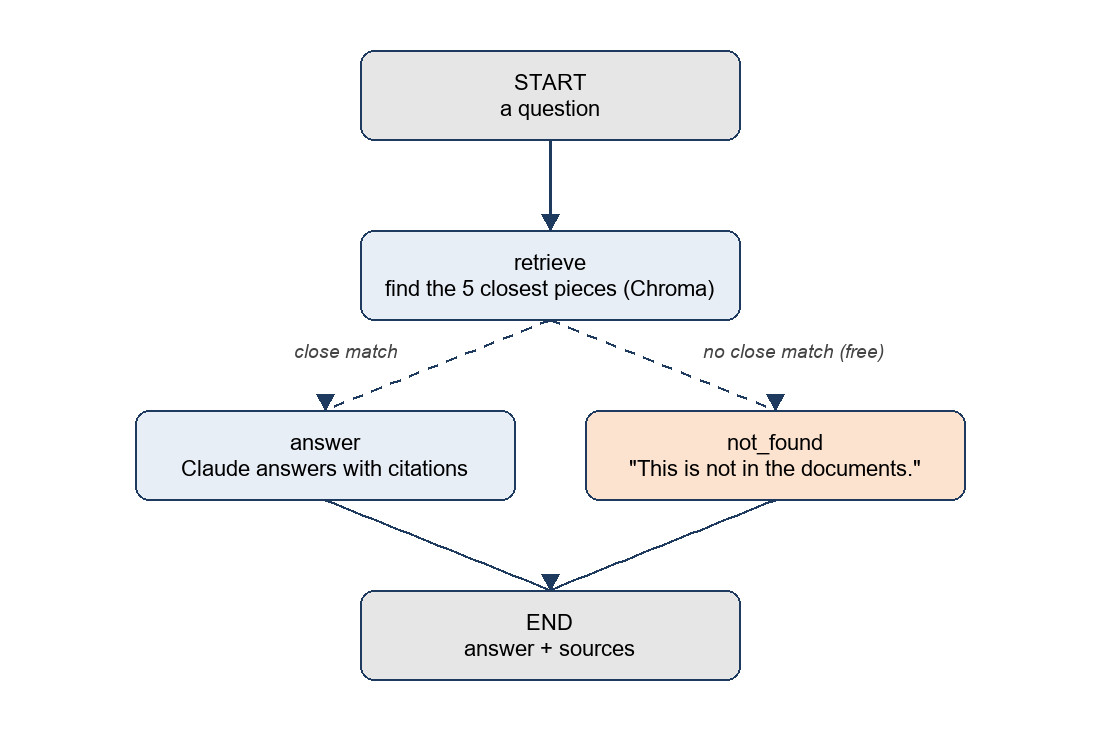
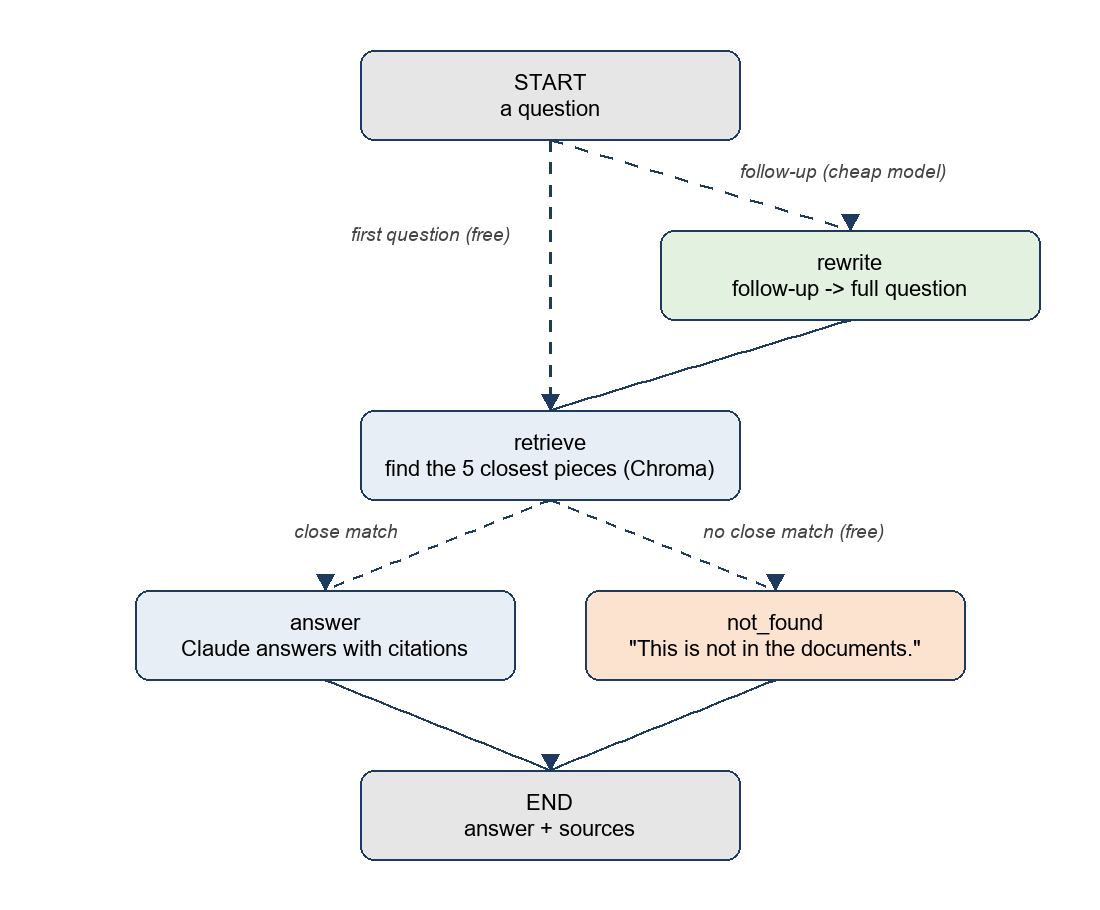
Version 2: owner login, documents page, follow-ups, pictures, feedback, PDF export, demo video
- New demo GIF and screenshots of the real program (made-up company documents)
- 20-question test with Claude Opus 5.5: 15 of 15 + 5 of 5; 155 automatic checks
- Block diagram and updated LangGraph flow

Changed region(s): [[0.1236, 0.2411, 0.9582, 0.9644], [0.3091, 0.0301, 0.8655, 0.211], [0.3091, 0.2411, 0.4636, 0.2712]]

diff --git a/README.md b/README.md
@@ -1,45 +1,67 @@
-# Business Knowledge Assistant 📚🤖
+# RAG Business Knowledge Assistant 📚🤖
 
-**Ask questions about a company's own documents and get answers with the source of every fact.** A company puts its PDF and Word files in a folder; an assistant built on **Anthropic Claude** answers only from those files, shows the file and page behind each answer, and says *"This is not in the documents"* instead of guessing.
+**Ask questions about a company's own documents and get answers with the source of every fact.** A company puts its PDF and Word files in one place; an assistant built on **Anthropic Claude** answers only from those files, shows the file, page and exact sentence behind each answer, and says *"This is not in the documents"* instead of guessing.
 
-Designed and built by **Iftikhar Ahmed** with Claude Code (2026).
+Designed and built by **Iftikhar Ahmed** with Claude Code (2026) · **Version 2**
 
 > This is a showcase. The source code is private. A live demo or code walkthrough is available on request.
 
 <p align="center">
-  <img src="images/answer-from-two-files.png" alt="Answer built from two documents, with sources" width="900"><br>
-  <em>One question, two documents: the price comes from the price list (page 2), the warranty from the product sheet (page 3). Each source shows the exact passage Claude used.</em>
+  <img src="images/demo.gif" alt="Demo: questions, sources, a follow-up, a picture, feedback, PDF and the owner's pages" width="900"><br>
+  <em>A 45-second tour of the real program (made-up company "Lumora Home Appliances").</em>
 </p>
 
 ---
 
 ## What it does
 
-1. The company's documents (PDF and Word) are read and cut into small pieces, one topic each, keeping the file name, page and heading of every piece.
-2. Each piece is stored in a **vector database**, so the assistant can find passages that *mean* the same as a question, not only ones with the same words.
-3. A question comes in. The 5 closest passages are found in a fraction of a second, on the company's own computer.
-4. **Claude** writes a short answer from those passages only. Claude's built-in **citations** mark the exact sentence behind each fact, shown as [1], [2].
+1. The owner adds the company's PDF and Word files on a password-protected page. They are read page by page and cut into small one-topic pieces, keeping the file, page and heading of each piece. **Pictures inside the documents** (product photos, drawings) are taken out and described once, so they can be found too.
+2. Each piece is stored in a **vector database**, so the assistant finds passages that *mean* the same as a question, not only ones with the same words.
+3. Staff ask in a chat. A **follow-up** such as *"and how much is it?"* is first turned into a full question using the conversation.
+4. The 5 closest passages are found on the company's own computer, and **Claude** writes a short answer from those passages only. Claude's built-in **citations** mark the exact sentence behind each fact, shown as [1], [2].
 5. If the documents do not contain the answer, the assistant says so. It never fills the gap from general knowledge.
 
-**Safety by design:** answers only from the company's documents; every fact traceable to a file and page; a clear "not in the documents" instead of a guess; the documents and the search stay on the company's computer; a spending limit stops all AI calls at a set amount.
+## What's new in version 2
 
-## Results (20-question test)
+| Feature | What it gives the business |
+|---|---|
+| **Owner login** | Owner manages documents, settings, costs and feedback; staff can only ask |
+| **Documents page** | Add, replace, delete and restore files without technical help |
+| **Follow-up questions** | A natural conversation; the page shows how each follow-up was understood |
+| **Pictures from the documents** | "What does the LH-450 look like?" shows the drawing from the product sheet, with its page |
+| **👍 / 👎 feedback** | Staff mark wrong or missing answers; the owner sees them to fix the documents |
+| **Copy and Save as PDF** | Answers with their sources go straight into an e-mail, a chat or a printout |
+| **Desktop icon** | Double-click to start; no black window; a Stop button for the owner |
+| **New look** | Glass cards and a moving 3D background, light and dark |
+
+## Results (20-question test, Claude Opus 5.5)
 
 | What | Result |
 |---|---|
-| Questions the documents can answer | **14 of 15 correct**, 1 partly correct (right facts, one source pointed to the wrong page) |
-| Questions the documents cannot answer (traps: a product that does not exist, a price in euros, Sunday delivery, the store manager's name) | **5 of 5** correctly answered "not in the documents" |
+| Questions the documents can answer | **15 of 15 correct**, each with the right file and page (version 1: 14 of 15) |
+| Trap questions (a product that does not exist, a price in euros, Sunday delivery, the store manager's name, used cars) | **5 of 5** correctly answered "not in the documents" |
 | Made-up facts | **None** — every answer was read and checked by hand |
+| Automatic tests | **155 checks** in 14 test files, all passing; plus checks in a real browser |
 | Time per question | about **2 seconds** |
-| Cost per question | about **1 US cent** (Claude Opus 5.5) · about 0.03 US cents with the smaller Claude Haiku 5.5 |
+| Cost per question | about **1 US cent** with Claude Opus 5.5 · about 0.03 US cents with Claude Haiku 5.5 |
 
-**Tested honestly:** the first test run missed one answer. The cause was found (one page with four topics had been stored as one piece, so the search could not find the extended-warranty rule), the reading step was improved to cut pieces at headings, and every earlier test was run again before the final score.
+**Tested honestly:** testing found real problems, and each was fixed and re-tested — a page with four topics stored as one piece (now cut at headings), the small model sometimes writing a draft into its answer (now checked and asked again automatically), and picture descriptions creeping into price answers (now used only when someone asks what a product looks like).
 
-## Screens (made-up company "Lumora Home Appliances")
+## Screens
 
 <p align="center">
-  <img src="images/answer-with-sources.png" alt="Answer with its source" width="900"><br>
-  <em>"I paid 300 in cash. How will I get my refund?" — the assistant applies the return policy (cash refunds only up to 200.00) and shows the passage it used.</em>
+  <img src="images/answer-two-files.png" alt="Answer built from two documents, with sources" width="900"><br>
+  <em>One question, two documents: the price from the price list (page 2), the warranty from the product sheet (page 3), each with the exact passage Claude used.</em>
+</p>
+
+<p align="center">
+  <img src="images/follow-up.png" alt="A follow-up question" width="900"><br>
+  <em>"and how much does installation cost?" — understood as a question about the LH-610 and answered from two documents.</em>
+</p>
+
+<p align="center">
+  <img src="images/picture-answer.png" alt="A picture from the documents" width="900"><br>
+  <em>Pictures inside the documents are found and shown with their file and page.</em>
 </p>
 
 <p align="center">
@@ -48,8 +70,30 @@ Designed and built by **Iftikhar Ahmed** with Claude Code (2026).
 </p>
 
 <p align="center">
+  <img src="images/documents-page.png" alt="The owner's Documents page" width="900"><br>
+  <em>Owner only: documents in use, with pages, pictures and pieces; add, replace, delete and restore.</em>
+</p>
+
+<p align="center">
+  <img src="images/feedback-page.png" alt="The owner's Feedback page" width="900"><br>
+  <em>Owner only: every answer marked 👎, with the staff member's comment — the list of what to fix in the documents.</em>
+</p>
+
+<p align="center">
+  <img src="images/pdf-export.png" alt="An answer saved as PDF" width="700"><br>
+  <em>Save as PDF: company name, question, answer, and each source with the quoted passage.</em>
+</p>
+
+## How it fits together
+
+<p align="center">
+  <img src="images/block-diagram.png" alt="Block diagram" width="900"><br>
+  <em>Everything runs on the company's own computer; only the question and the five closest passages go to Claude.</em>
+</p>
+
+<p align="center">
   <img src="images/langgraph-flow.png" alt="LangGraph flow" width="700"><br>
-  <em>The answer flow as a LangGraph graph: find the closest passages, then either answer with citations or — when nothing is close — reply "not in the documents" without calling the AI at all.</em>
+  <em>The answer flow as a LangGraph graph: a follow-up is rewritten first, the closest passages are found, then Claude answers with citations — or, when nothing is close, "not in the documents" without calling the AI at all.</em>
 </p>
 
 <p align="center">
@@ -57,33 +101,21 @@ Designed and built by **Iftikhar Ahmed** with Claude Code (2026).
   <em>The same document search offered as an <b>MCP server</b>: Claude Code (or Claude Desktop) calls the search tool by itself and answers with file and page. A real test run.</em>
 </p>
 
-## How it fits together
+## Safety and privacy by design
 
-1. **Documents**: PDF and Word files in one folder.
-2. **Reading step**: text page by page, cut into one-topic pieces with their headings; headers and footers removed.
-3. **Vector database (Chroma)** with a free embedding model that runs on the company's own computer.
-4. **Answer flow (LangGraph)**: search → close enough? → Claude answers with citations, or "not in the documents".
-5. **Web page**: question box, answer, sources with the quoted passage, cost of each question.
-6. **MCP server**: the same search as a tool for Claude Code and Claude Desktop.
-
-## Main parts of the system
-
-| Part | What it does |
-|---|---|
-| Document reader | Reads PDF and Word, removes headers and footers, keeps file, page and heading |
-| Vector database | Stores the pieces and finds the closest ones to a question |
-| Answer engine | Claude with built-in citations; two versions: plain Python and LangGraph |
-| Web page | Ask questions, see answers, sources and cost |
-| MCP server | One read-only search tool for Claude Code and Claude Desktop |
-| Tests | 48 automatic checks across all steps, plus the 20-question scored test |
+- Answers only from the company's documents; every fact traceable to a file, page and sentence.
+- The documents, the search and the pictures stay on the company's computer; it runs only locally.
+- The API key is kept in the operating system, never in files; the owner's password is stored only as a salted fingerprint, with a lock after wrong tries.
+- Everything shown on the page is cleaned first, so a document cannot inject code into the page.
+- A spending limit stops all AI calls at a set amount; every call's cost is recorded.
 
 ## Built with
 
-Anthropic Claude (Opus 5.5, Haiku 5.5) · Claude citations · Claude Code · Python · LangChain · LangGraph · Chroma vector database · all-MiniLM-L6-v2 embeddings (local) · Model Context Protocol (MCP) · Streamlit
+Anthropic Claude (Opus 5.5, Haiku 5.5) · Claude citations · Claude vision for pictures · Claude Code · Python · LangChain · LangGraph · Chroma vector database · all-MiniLM-L6-v2 embeddings (local) · Model Context Protocol (MCP) · Streamlit
 
 ## Status
 
-Working prototype, tested with made-up company documents, running on a local computer. Next: more document types, larger document sets, and a hosted version with a login for a client.
+Version 2 finished and tested with made-up company documents, running on a local computer. Next: voice questions and answers with models that run on the computer, scanned-document reading, and a network version with a login for each staff member.
 
 ---
 
